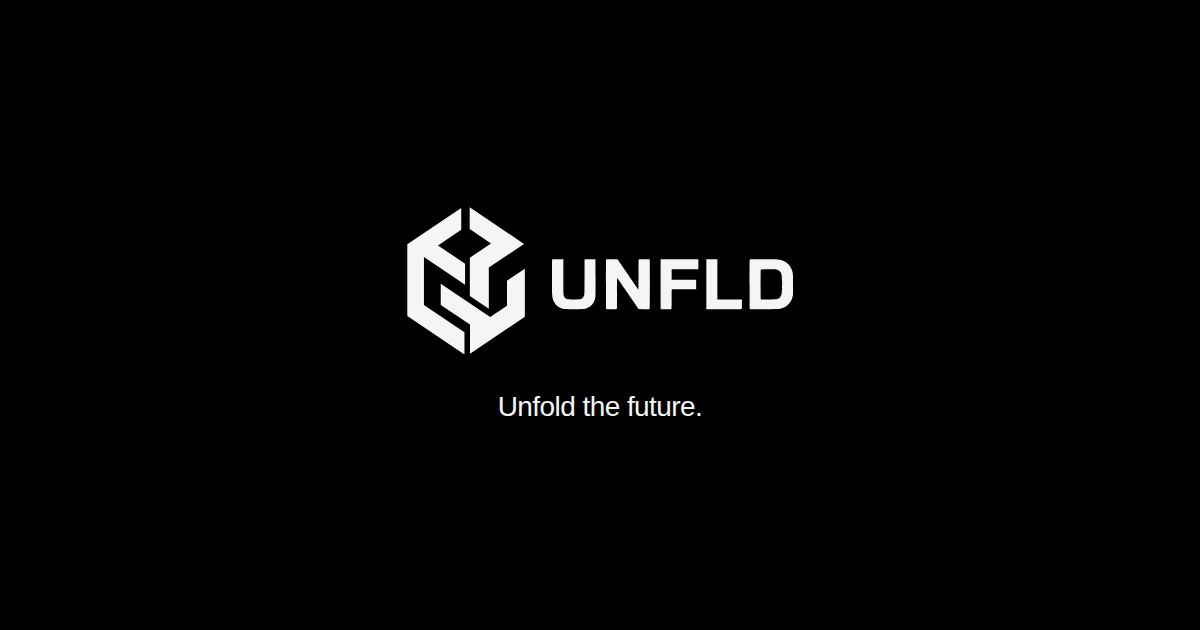
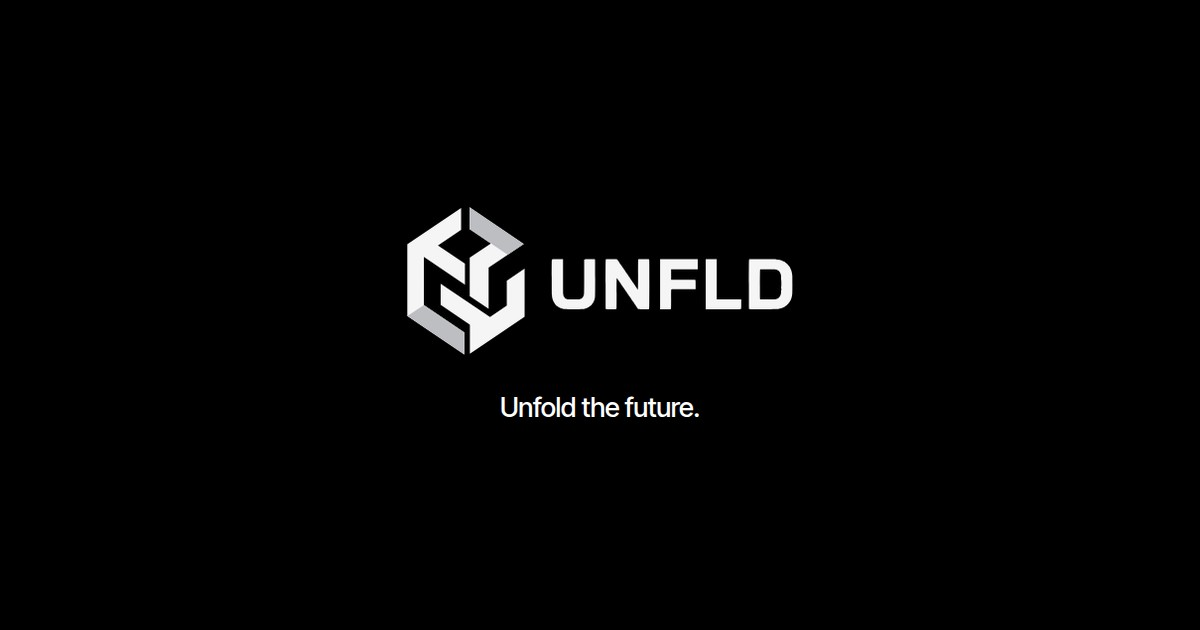
Paint the official grey bevels on the dark UNFLD lockup.
The dark lockup splits the hexagon's top-right and bottom-left facets into their own polygons and fills them #bdbec2, sampled from the brand file. The light lockup leaves those facets in the main color. Favicons at 16, 32, and 48 stay flat; icons from 180px up use the bevel.

diff --git a/src/components/site/logo.tsx b/src/components/site/logo.tsx
@@ -2,6 +2,7 @@ import { Link } from "@tanstack/react-router";
 import { useMessages } from "@/lib/i18n";
 import { cn } from "@/lib/utils";
 import {
+  BEVEL_PATH,
   LOCKUP_SYMBOL_TRANSFORM,
   LOCKUP_VIEWBOX,
   LOCKUP_WORD_PATH,
@@ -10,7 +11,13 @@ import {
   MARK_VIEWBOX,
 } from "@/components/site/brand-mark";
 
-export function Mark({ className }: { className?: string }) {
+export function Mark({
+  className,
+  bevel = true,
+}: {
+  className?: string;
+  bevel?: boolean;
+}) {
   return (
     <svg
       viewBox={MARK_VIEWBOX}
@@ -18,11 +25,18 @@ export function Mark({ className }: { className?: string }) {
       aria-hidden="true"
     >
       <path fill="currentColor" d={MARK_PATH} />
+      {bevel ? <path className="fill-logo-bevel" d={BEVEL_PATH} /> : null}
     </svg>
   );
 }
 
-export function Lockup({ className }: { className?: string }) {
+export function Lockup({
+  className,
+  bevel = true,
+}: {
+  className?: string;
+  bevel?: boolean;
+}) {
   return (
     <svg
       viewBox={LOCKUP_VIEWBOX}
@@ -31,6 +45,7 @@ export function Lockup({ className }: { className?: string }) {
     >
       <g transform={LOCKUP_SYMBOL_TRANSFORM}>
         <path fill="currentColor" d={MARK_PATH} />
+        {bevel ? <path className="fill-logo-bevel" d={BEVEL_PATH} /> : null}
       </g>
       <g transform={LOCKUP_WORD_TRANSFORM}>
         <path fill="currentColor" d={LOCKUP_WORD_PATH} />

diff --git a/src/components/site/brand-mark.ts b/src/components/site/brand-mark.ts
@@ -2,6 +2,16 @@
 export const MARK_VIEWBOX = "0 0 381.50 477.36";
 export const MARK_PATH = "M175.00 73.01L99.65 123.73L187.50 182.88L187.50 251.02L54.00 161.15L54.00 317.16L185.50 405.69L185.50 477.36L0.00 352.48L0.00 119.66L175.00 1.85ZM381.50 355.34L203.50 475.17L203.50 380.73L108.50 316.78L108.50 247.90L268.99 355.94L323.50 319.24L323.50 238.28L381.50 199.23ZM378.80 118.69L264.50 195.64L264.50 329.62L203.00 288.22L203.00 163.48L271.79 117.17L202.50 70.53L202.50 0.00Z";
 
+/**
+ * Dark-lockup bevels, in the symbol viewBox. Two facets of the official
+ * hexagon: the top-right band and the bottom-left band. On the light
+ * lockup those same areas stay the main color, so omit this path.
+ * Fill with the logo-bevel token (#bdbec2, sampled from
+ * public/brand/source/04-lockup-on-dark.jpg).
+ */
+export const BEVEL_PATH =
+  "M202.50 0.00L378.80 118.69L326.42 153.95L202.50 70.53ZM0.00 352.48L185.50 477.36L185.50 405.69L54.00 317.16Z";
+
 /** Horizontal lockup: hexagon plus traced UNFLD lettering. */
 export const LOCKUP_VIEWBOX = "0 0 1255.33 480.36";
 export const LOCKUP_SYMBOL_TRANSFORM = "translate(1.00 1.00)";

diff --git a/src/routes/legal/brand-guidelines.tsx b/src/routes/legal/brand-guidelines.tsx
@@ -33,7 +33,7 @@ function Page() {
           </div>
           <div className="flex aspect-[16/9] items-center justify-center rounded-xl bg-fg">
             <span className="text-bg">
-              <Lockup className="h-16 w-auto" />
+              <Lockup bevel={false} className="h-16 w-auto" />
             </span>
           </div>
         </div>

diff --git a/src/styles.css b/src/styles.css
@@ -147,6 +147,8 @@
   --color-bg-elevated: #0a0a0a;
   --color-bg-subtle: #111111;
   --color-fg: #f5f5f5;
+  /* Dark-lockup bevel facets. Sampled from public/brand/source/04-lockup-on-dark.jpg. */
+  --color-logo-bevel: #bdbec2;
   --color-muted: #8a8a8a;
   --color-subtle: #5c5c5c;
   --color-border: #1a1a1a;

diff --git a/DESIGN.md b/DESIGN.md
@@ -28,8 +28,13 @@ Public-facing brand rules (name, mark, color) also live at
 | HQ | São Paulo — Rua Avanhandava, 126, Bela Vista. |
 
 **Mark.** The hexagon symbol. Source: `public/brand/symbol.svg`,
-`src/components/site/logo.tsx` (`Mark`), and `public/favicon.svg`. Use
-`currentColor`. Do not rotate, recolor, add shadows, or redraw.
+`src/components/site/logo.tsx` (`Mark`), and `public/favicon.svg`. Faces
+use `currentColor`. On dark surfaces the official lockup paints two
+bevel facets, the top-right band and the bottom-left band, with
+`fill-logo-bevel` (`--color-logo-bevel`). The light lockup leaves those
+facets in the main color (`bevel={false}`). Favicon rasters at 16, 32,
+and 48 stay flat because the grey bands close up at that size. Do not
+rotate, add shadows, or redraw.
 
 **Wordmark.** The traced UNFLD lettering in `public/brand/lockup.svg`
 (`Lockup`). Always locked up with the mark in chrome; the mark may stand
